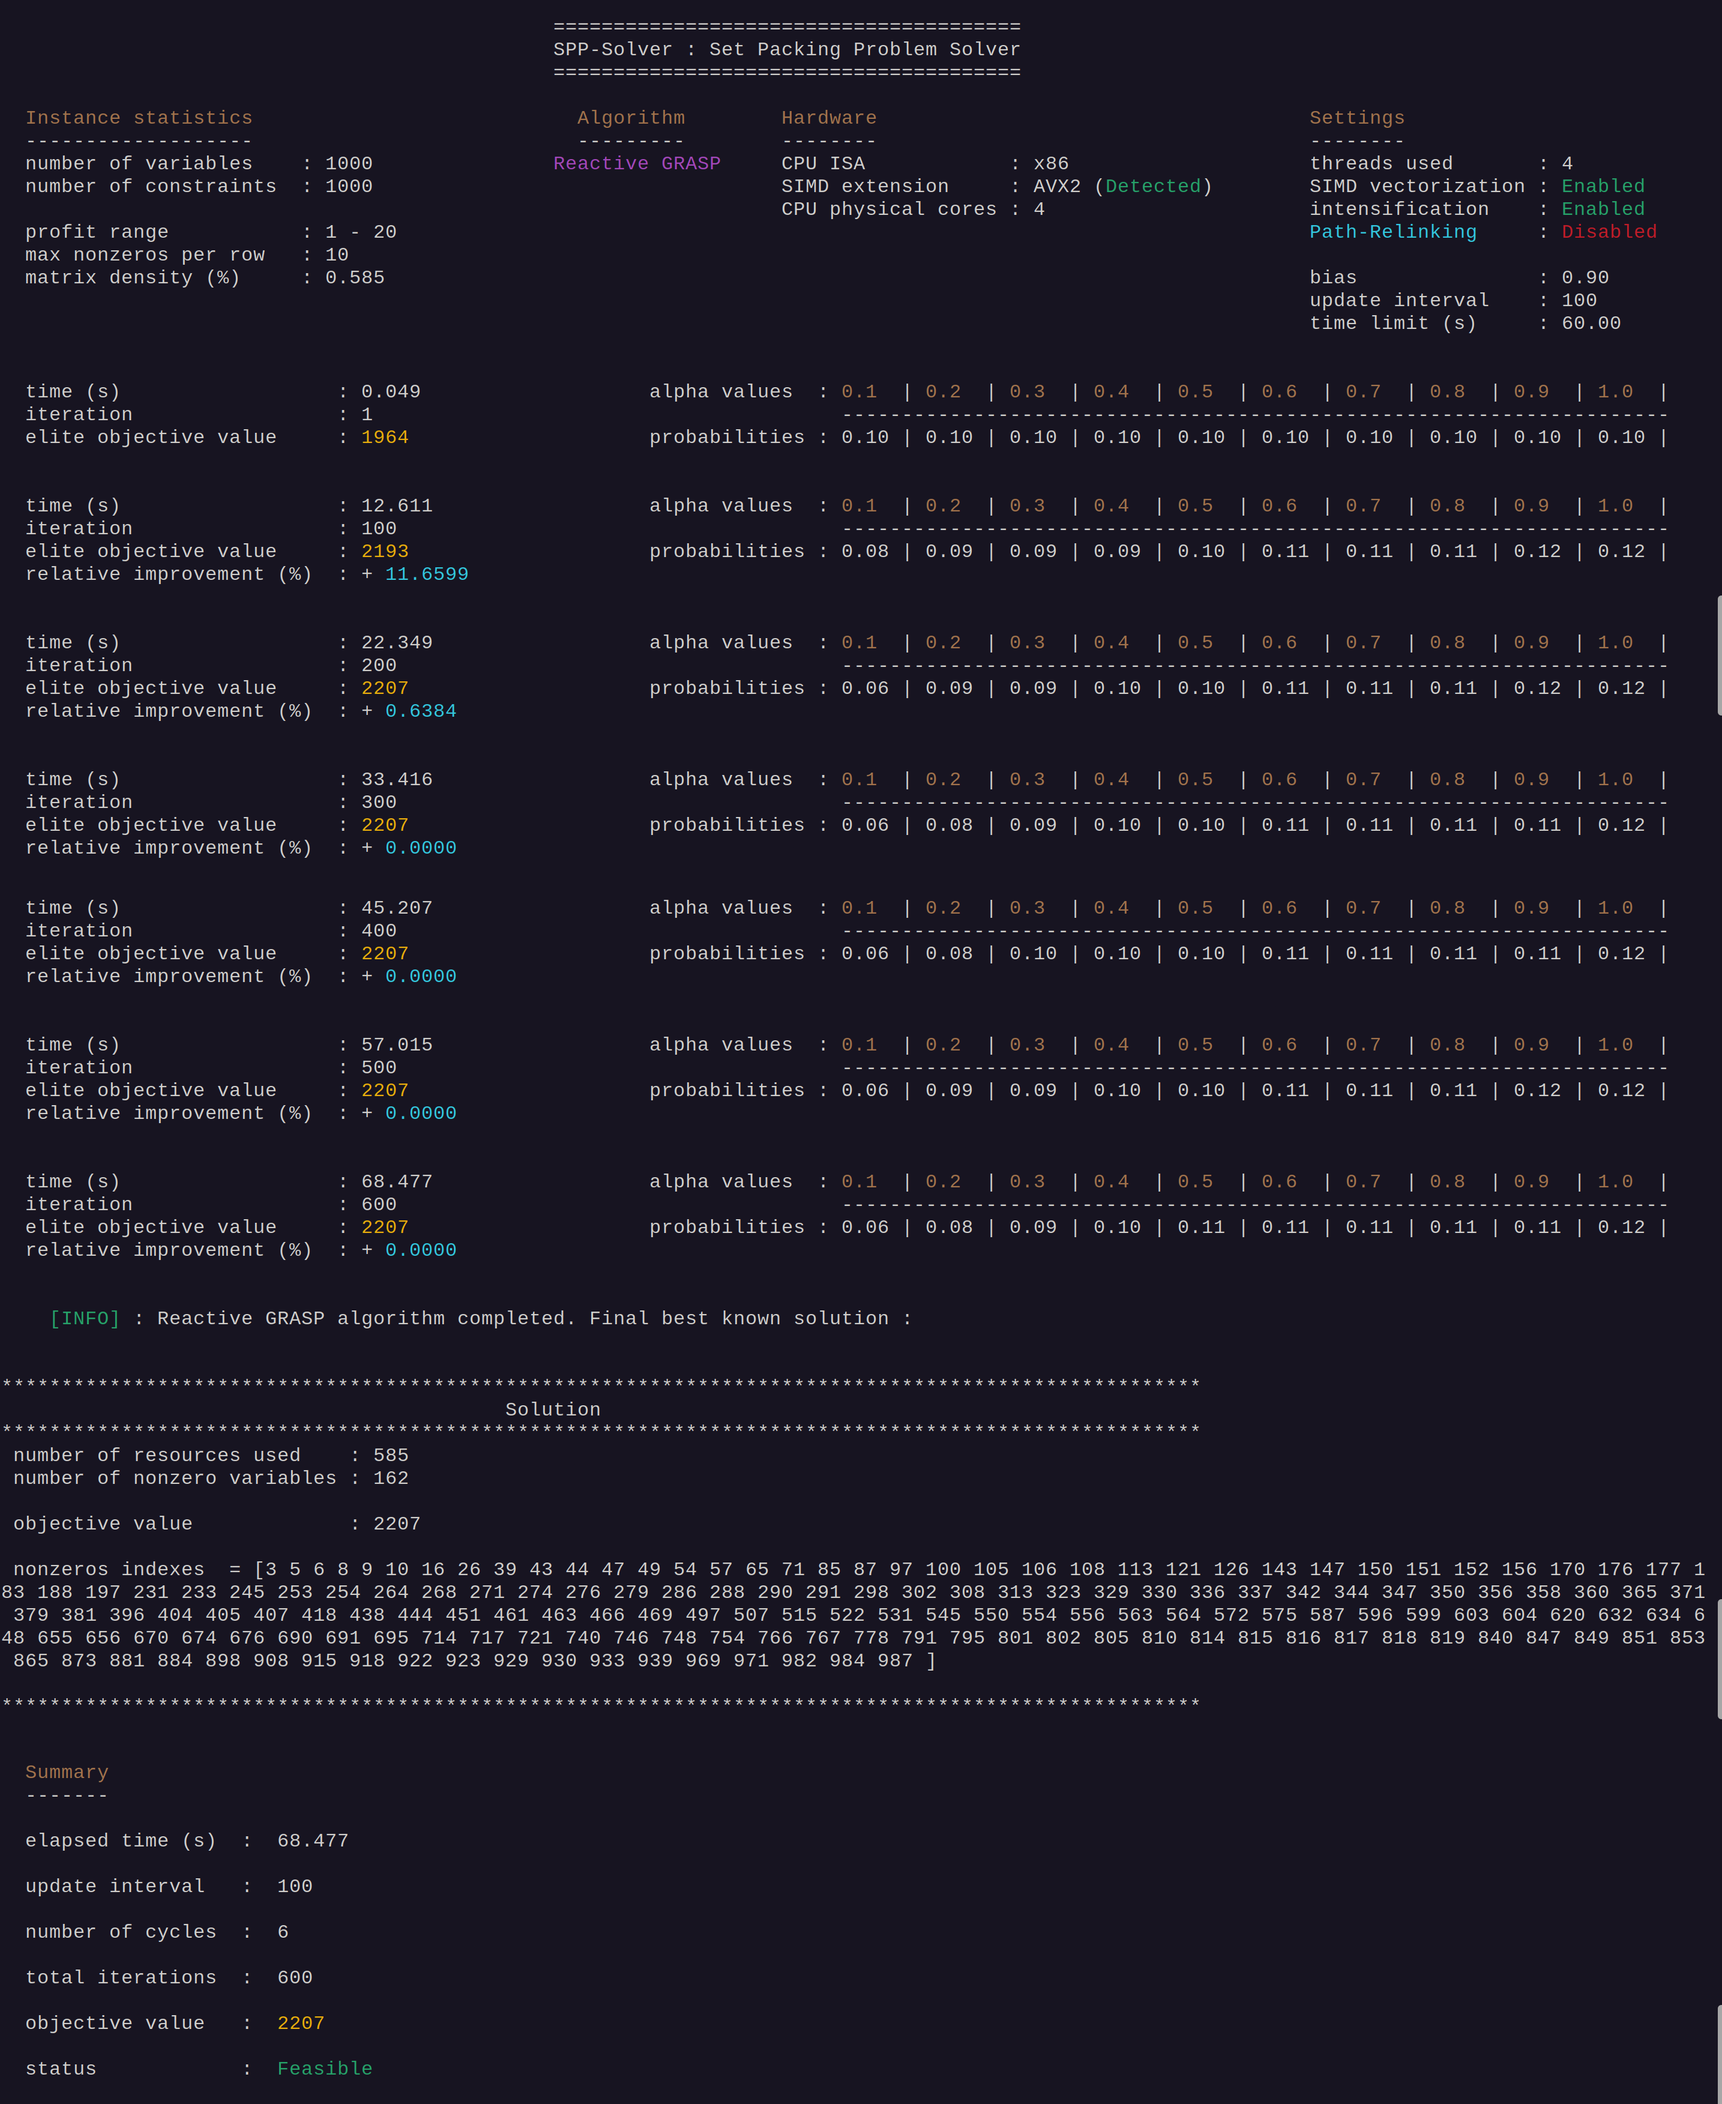
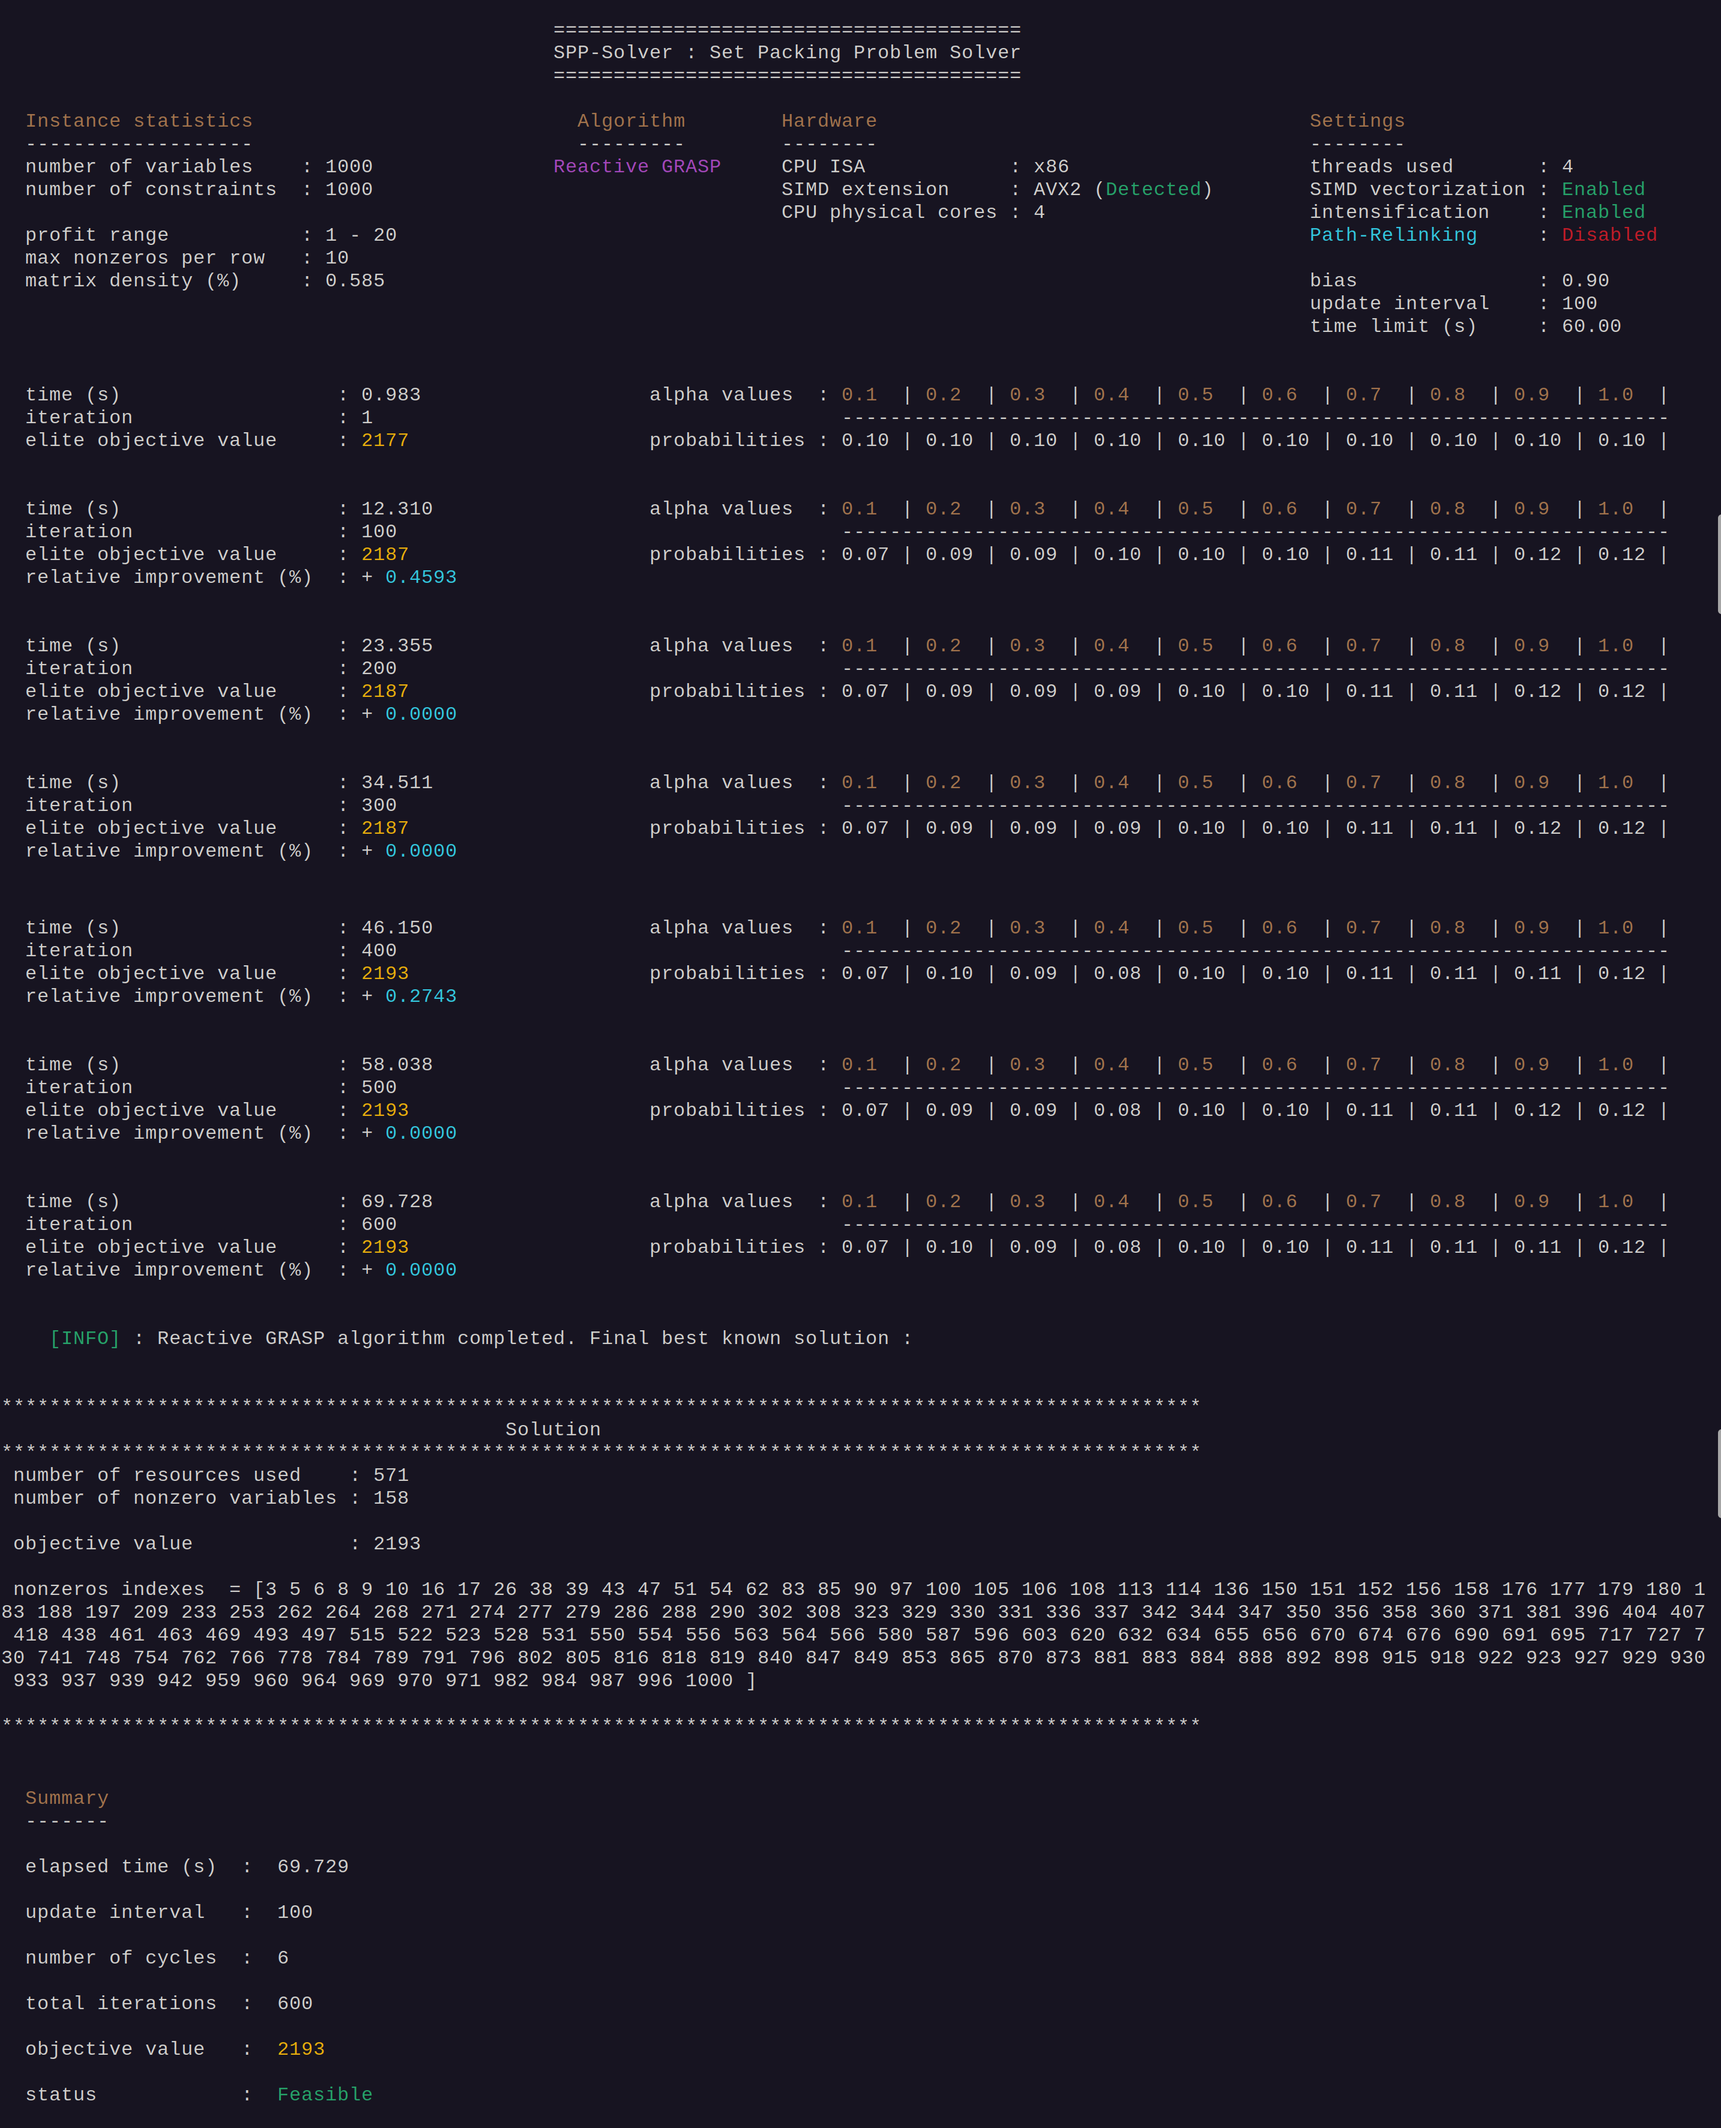
Update

diff --git a/src/algorithms/grasp/PathRelinking.cpp b/src/algorithms/grasp/PathRelinking.cpp
@@ -88,13 +88,19 @@ namespace spp{
         std::array<float, 10> alpha_selection_count{};
         std::array<float, 10> alpha_scores{};
 
+        // number of iterations per GRASP cycle
         int work_size = static_cast<int>(params.update_interval);
+
+        // number of CPU threads to use
         int nb_threads_used = std::min(params.nb_threads, work_size);
         std::vector<std::thread> workers(nb_threads_used);
 
-        std::vector<Solution> all_local_best_solutions(nb_threads_used, current_elite_solution);
-        std::vector<std::array<float, 10>> all_alpha_cumulative_scores(nb_threads_used, alpha_scores);
-        std::vector<std::array<float, 10>> all_alpha_selection_count(nb_threads_used, alpha_selection_count);
+        // vector of local elite generated during the GRASP cycle
+        std::vector<Solution> all_local_best_solutions(params.nb_elites, current_elite_solution);
+
+        // vector of cumulative alpha scores and selection counts
+        std::vector<std::array<float, 10>> all_alpha_cumulative_scores(params.nb_elites, alpha_scores);
+        std::vector<std::array<float, 10>> all_alpha_selection_count(params.nb_elites, alpha_selection_count);
 
         for(int id = 0; id < nb_threads_used; id++){
 
@@ -329,23 +335,56 @@ namespace spp{
 
 
 
+    void exploreRelinkingPathSingleThread(int start_index,
+                                          int end_index,
+                                          std::vector<Solution> &initial_solutions_pool,
+                                          Solution &guiding_solution,
+                                          std::vector<Solution> local_elite_pool,
+                                          const Params &params,
+                                          const Instance &instance){
+
+        for(int index = start_index; index <= end_index; index++){
+
+            exploreRelinkingPath(initial_solutions_pool[index],
+                                 guiding_solution,
+                                 local_elite_pool[index],
+                                 params,
+                                 instance);
+
+        }
+
+
+    }
+
+
+
+
+
     std::vector<Solution> exploreMultiRelinkingPath(std::vector<Solution> &initial_solutions_pool,
                                                     Solution &guiding_solution,
                                                     const Params &params,
                                                     const Instance &instance){
 
-        // the pool of local elite solutions (the guiding solution)
-        std::vector<Solution> local_elite_pool(initial_solutions_pool.size(), guiding_solution);
+        int work_size = params.nb_elites;
+        int nb_threads_used = std::min(params.nb_threads, work_size);
 
         // the pool of CPU threads to use 
-        std::vector<std::thread> workers(initial_solutions_pool.size());
+        std::vector<std::thread> workers(nb_threads_used);
+
+        // the pool of local elite solutions (the guiding solution)
+        std::vector<Solution> local_elite_pool(work_size, guiding_solution);
 
         for(size_t id = 0; id < workers.size(); id++){
 
-            workers[id] = std::thread(exploreRelinkingPath,
-                                      std::ref(initial_solutions_pool[id]),
+            int start = start_index(id, work_size, nb_threads_used);
+            int end = end_index(id, work_size, nb_threads_used);
+
+            workers[id] = std::thread(exploreRelinkingPathSingleThread,
+                                      start,
+                                      end,
+                                      std::ref(initial_solutions_pool),
                                       std::ref(guiding_solution),
-                                      std::ref(local_elite_pool[id]),
+                                      std::ref(local_elite_pool),
                                       std::ref(params),
                                       std::ref(instance));
 
@@ -355,8 +394,6 @@ namespace spp{
         for(auto &worker : workers){worker.join();}
 
         return local_elite_pool;
-
-
     }
 
 

diff --git a/include/algorithms/grasp/PathRelinking.hpp b/include/algorithms/grasp/PathRelinking.hpp
@@ -127,7 +127,21 @@ namespace spp{
                               const Instance &instance);
 
 
-    
+
+
+    /**
+     * @brief explores the relinking path between initial solutions and the guiding solution on a single CPU thread
+     */
+    void exploreRelinkingPathSingleThread(int start_index,
+                                          int end_index,
+                                          std::vector<Solution> &initial_solutions_pool,
+                                          Solution &guiding_solution,
+                                          std::vector<Solution> local_elite_pool,
+                                          const Params &params,
+                                          const Instance &instance);
+
+
+
 
     /**
      * @brief explores the relinking path between the pool of initial solutions and the guiding solution with CPU multi-threading

diff --git a/src/output/GeneralOutput.cpp b/src/output/GeneralOutput.cpp
@@ -121,6 +121,9 @@
             << "    ./bin/spp_solver --algorithm=grasp "
             << "--instance=benchmarks/pb_1000rnd0700.dat  --update-interval=100  --time-limit=30 --bias=0.7 --simd \n\n"
 
+            << "    ./bin/spp_solver --algorithm=grasp "
+            << "--instance=benchmarks/pb_100rnd0100.dat  --update-interval=50  --time-limit=30  --simd --path-relinking\n\n"
+
             << "    ./bin/spp_solver --algorithm=bab "
             << "--instance=benchmarks/pb_1000rnd0700.dat  --intensification  --solver=gurobi --exploration=dfs\n\n"
 

diff --git a/README.md b/README.md
@@ -55,23 +55,34 @@ After a **fixed number of iterations** (update interval), the solver computes th
 A **bias parameter** reinforces the most effective $\alpha$‑values, increasing their probability while maintaining controlled exploration across all candidates.
 
 
+## 5. Path-Relinking intensification (for the Reactive GRASP algorithm)
+
+During each GRASP cycle, the solver generates many candidate solutions and retains only a **restricted elite pool**. The **best solution in this pool** becomes the **guiding solution**.
+
+Path‑Relinking then performs i**ndependent parallel explorations** between the guiding solution and each remaining elite. Along each path, whenever an **intermediate solution** becomes **better than the guiding solution**, an **intensified VND is applied** — even if this intermediate solution is **not better than the best elite currently found** along that path.
+This allows the algorithm to exploit promising states early and potentially uncover stronger elites.
+
+The best result obtained across all paths is returned as the **intensified elite** for the cycle.
 
 
-## 8. Branch & Bound
+
+
+
+## 9. Branch & Bound
 
 
 An **exact** Branch & Bound method with **optimality guarantee**.  
 The search is warm‑started using the **deterministic greedy construction with VND local search**, providing a strong initial primal bound and improving pruning efficiency.  Linear relaxations are solved through the selected Linear Programming solver backend, with configurable branching rules and exploration strategies.
 
 
-## 9. MILP Solvers interfaces
+## 10. MILP Solvers interfaces
 
 This project includes lightweight interfaces to **HiGHS**, **Gurobi** and **Hexaly** for solving the Set Packing Problem as a Mixed-Integer Linear Program (MILP).  
 These interfaces build the SPP model, call the solver and then extract the resulting solution.
 
 
 
-## 10. High‑Performance Computing (HPC) Enhancements
+## 11. High‑Performance Computing (HPC) Enhancements
 
 Since both the decision variables and the constraint matrix are purely binary, the solver uses a **compact BitVector representation** to efficiently encode solutions and conflicts.
 This enables fast bitwise operations for feasibility checks and neighborhood evaluation.
@@ -252,6 +263,20 @@ Total GRASP iterations = update-interval $\times$ nb-cycles.
 
 ![](docs/images/run_reactive_grasp.png)
 
+
+
+## Run Reactive GRASP algorithm with Path-Relinking intensification
+
+
+```bash
+./bin/spp_solver --algorithm=grasp --instance=benchmarks/pb_1000rnd0700.dat --update-interval=100 --time-limit=60 --bias=0.9 --nb-threads=4 --simd --intensification  --path-relinking  --nb-elites=10
+```
+
+- **--path-relinking** (mandatory) : Enable the path-relinking intensification phase.
+
+- **--nb-elites** (optional) : Defines the size of the elite pool retained during each GRASP cycle. If omitted, the solver defaults to the number of physical CPU cores
+
+![](docs/images/run_reactive_grasp_path_relinking.png)
 
 
 ## Run Branch & Bound algorithm (with greedy primal solution)
